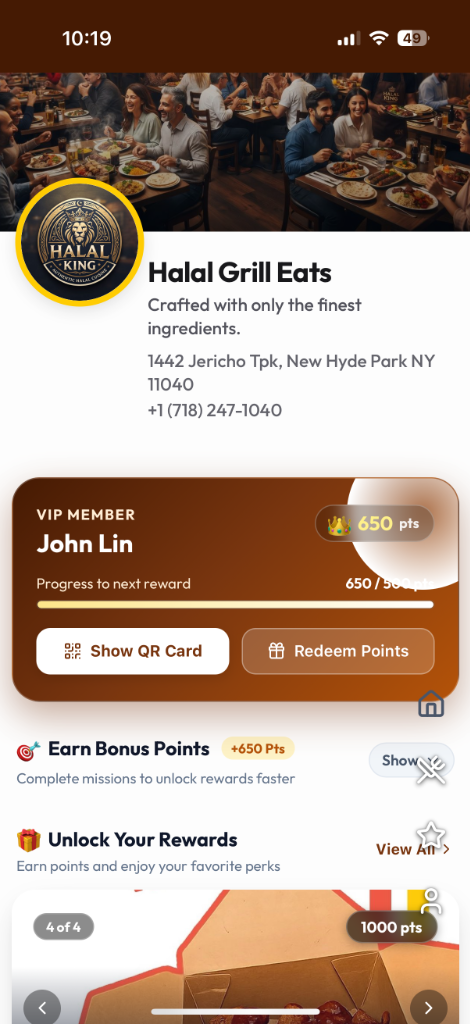
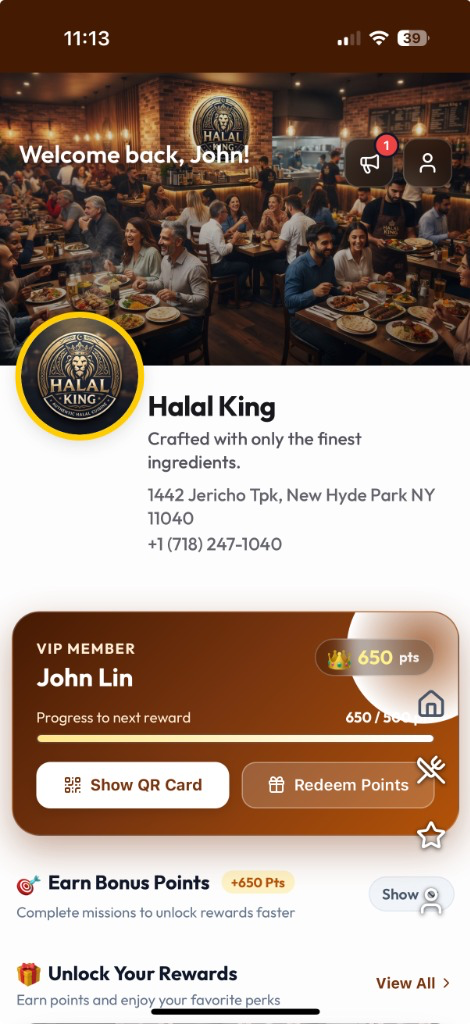
fix(engivo): replace Halal Grill image with new Halal King asset and fix phone frame to fit image edge-to-edge with zero gap

diff --git a/src/components/FannedCardCarousel.jsx b/src/components/FannedCardCarousel.jsx
@@ -5,13 +5,13 @@ import { ChevronLeft, ChevronRight, ArrowLeftRight } from 'lucide-react';
 
 const SHOWCASE_CARDS = [
   {
-    id: 'halal-grill',
-    title: 'Halal Grill Eats',
+    id: 'halal-king',
+    title: 'Halal King',
     subtitle: 'QSR & Fast Casual',
-    domain: 'app.engivo.com/halal-grill',
+    domain: 'app.engivo.com/halal-king',
     badge: 'Customer PWA',
-    image: '/engivo-app-halalgrill.png',
-    tag: 'Halal Grill Eats'
+    image: '/engivo-app-halalking.png',
+    tag: 'Halal King'
   },
   {
     id: 'mumbai-spice',
@@ -43,7 +43,7 @@ export default function FannedCardCarousel() {
   return (
     <div className="w-full flex flex-col items-center select-none">
       {/* 3D Fanned Card Stack Container */}
-      <div className="relative w-full max-w-[320px] h-[520px] sm:h-[550px] flex items-center justify-center">
+      <div className="relative w-full max-w-[320px] h-[540px] sm:h-[570px] flex items-center justify-center">
         {SHOWCASE_CARDS.map((card, i) => {
           // Calculate relative offset from active card: 0 = front, 1 = right, 2 = left
           const offset = (i - activeIdx + SHOWCASE_CARDS.length) % SHOWCASE_CARDS.length;
@@ -81,7 +81,7 @@ export default function FannedCardCarousel() {
           return (
             <motion.div
               key={card.id}
-              className="absolute top-2 w-[255px] sm:w-[270px] cursor-grab active:cursor-grabbing origin-bottom"
+              className="absolute top-2 w-[250px] sm:w-[265px] cursor-grab active:cursor-grabbing origin-bottom"
               style={{
                 zIndex,
                 touchAction: 'pan-y'
@@ -117,10 +117,10 @@ export default function FannedCardCarousel() {
               }}
               whileHover={!isFront ? { scale: 0.95, opacity: 0.95, filter: 'brightness(0.92)' } : undefined}
             >
-              {/* Phone Mockup Frame */}
-              <div className="rounded-2xl overflow-hidden shadow-2xl border-4 border-slate-800 bg-slate-950 ring-1 ring-white/10">
+              {/* Phone Mockup Frame - tightly wrapping the image with 0 gap */}
+              <div className="w-full rounded-[24px] overflow-hidden shadow-2xl border-2 sm:border-[3px] border-slate-700/80 bg-slate-950 ring-1 ring-white/10 flex flex-col">
                 {/* Browser bar */}
-                <div className="bg-slate-900 text-[11px] text-slate-400 px-3 py-1.5 flex items-center justify-between border-b border-slate-800">
+                <div className="bg-slate-900 text-[11px] text-slate-300 px-3 py-1.5 flex items-center justify-between border-b border-slate-800/90 shrink-0">
                   <span className="font-semibold text-white flex items-center gap-1.5 truncate max-w-[160px]">
                     <span className="w-2 h-2 rounded-full bg-emerald-500 animate-pulse shrink-0"></span>
                     {card.domain}
@@ -128,12 +128,12 @@ export default function FannedCardCarousel() {
                   <span className="text-[10px] text-slate-400 shrink-0">{card.badge}</span>
                 </div>
 
-                {/* Screenshot viewport */}
-                <div className="relative overflow-hidden bg-slate-950 aspect-[470/1000] max-h-[460px] sm:max-h-[490px]">
+                {/* Screenshot viewport - full width & height, tightly fitted */}
+                <div className="relative w-full h-[490px] sm:h-[520px] overflow-hidden bg-slate-950">
                   <img
                     src={card.image}
                     alt={card.title}
-                    className="w-full h-full object-cover object-top select-none pointer-events-none"
+                    className="w-full h-full object-cover object-top block select-none pointer-events-none"
                     draggable={false}
                   />
 
